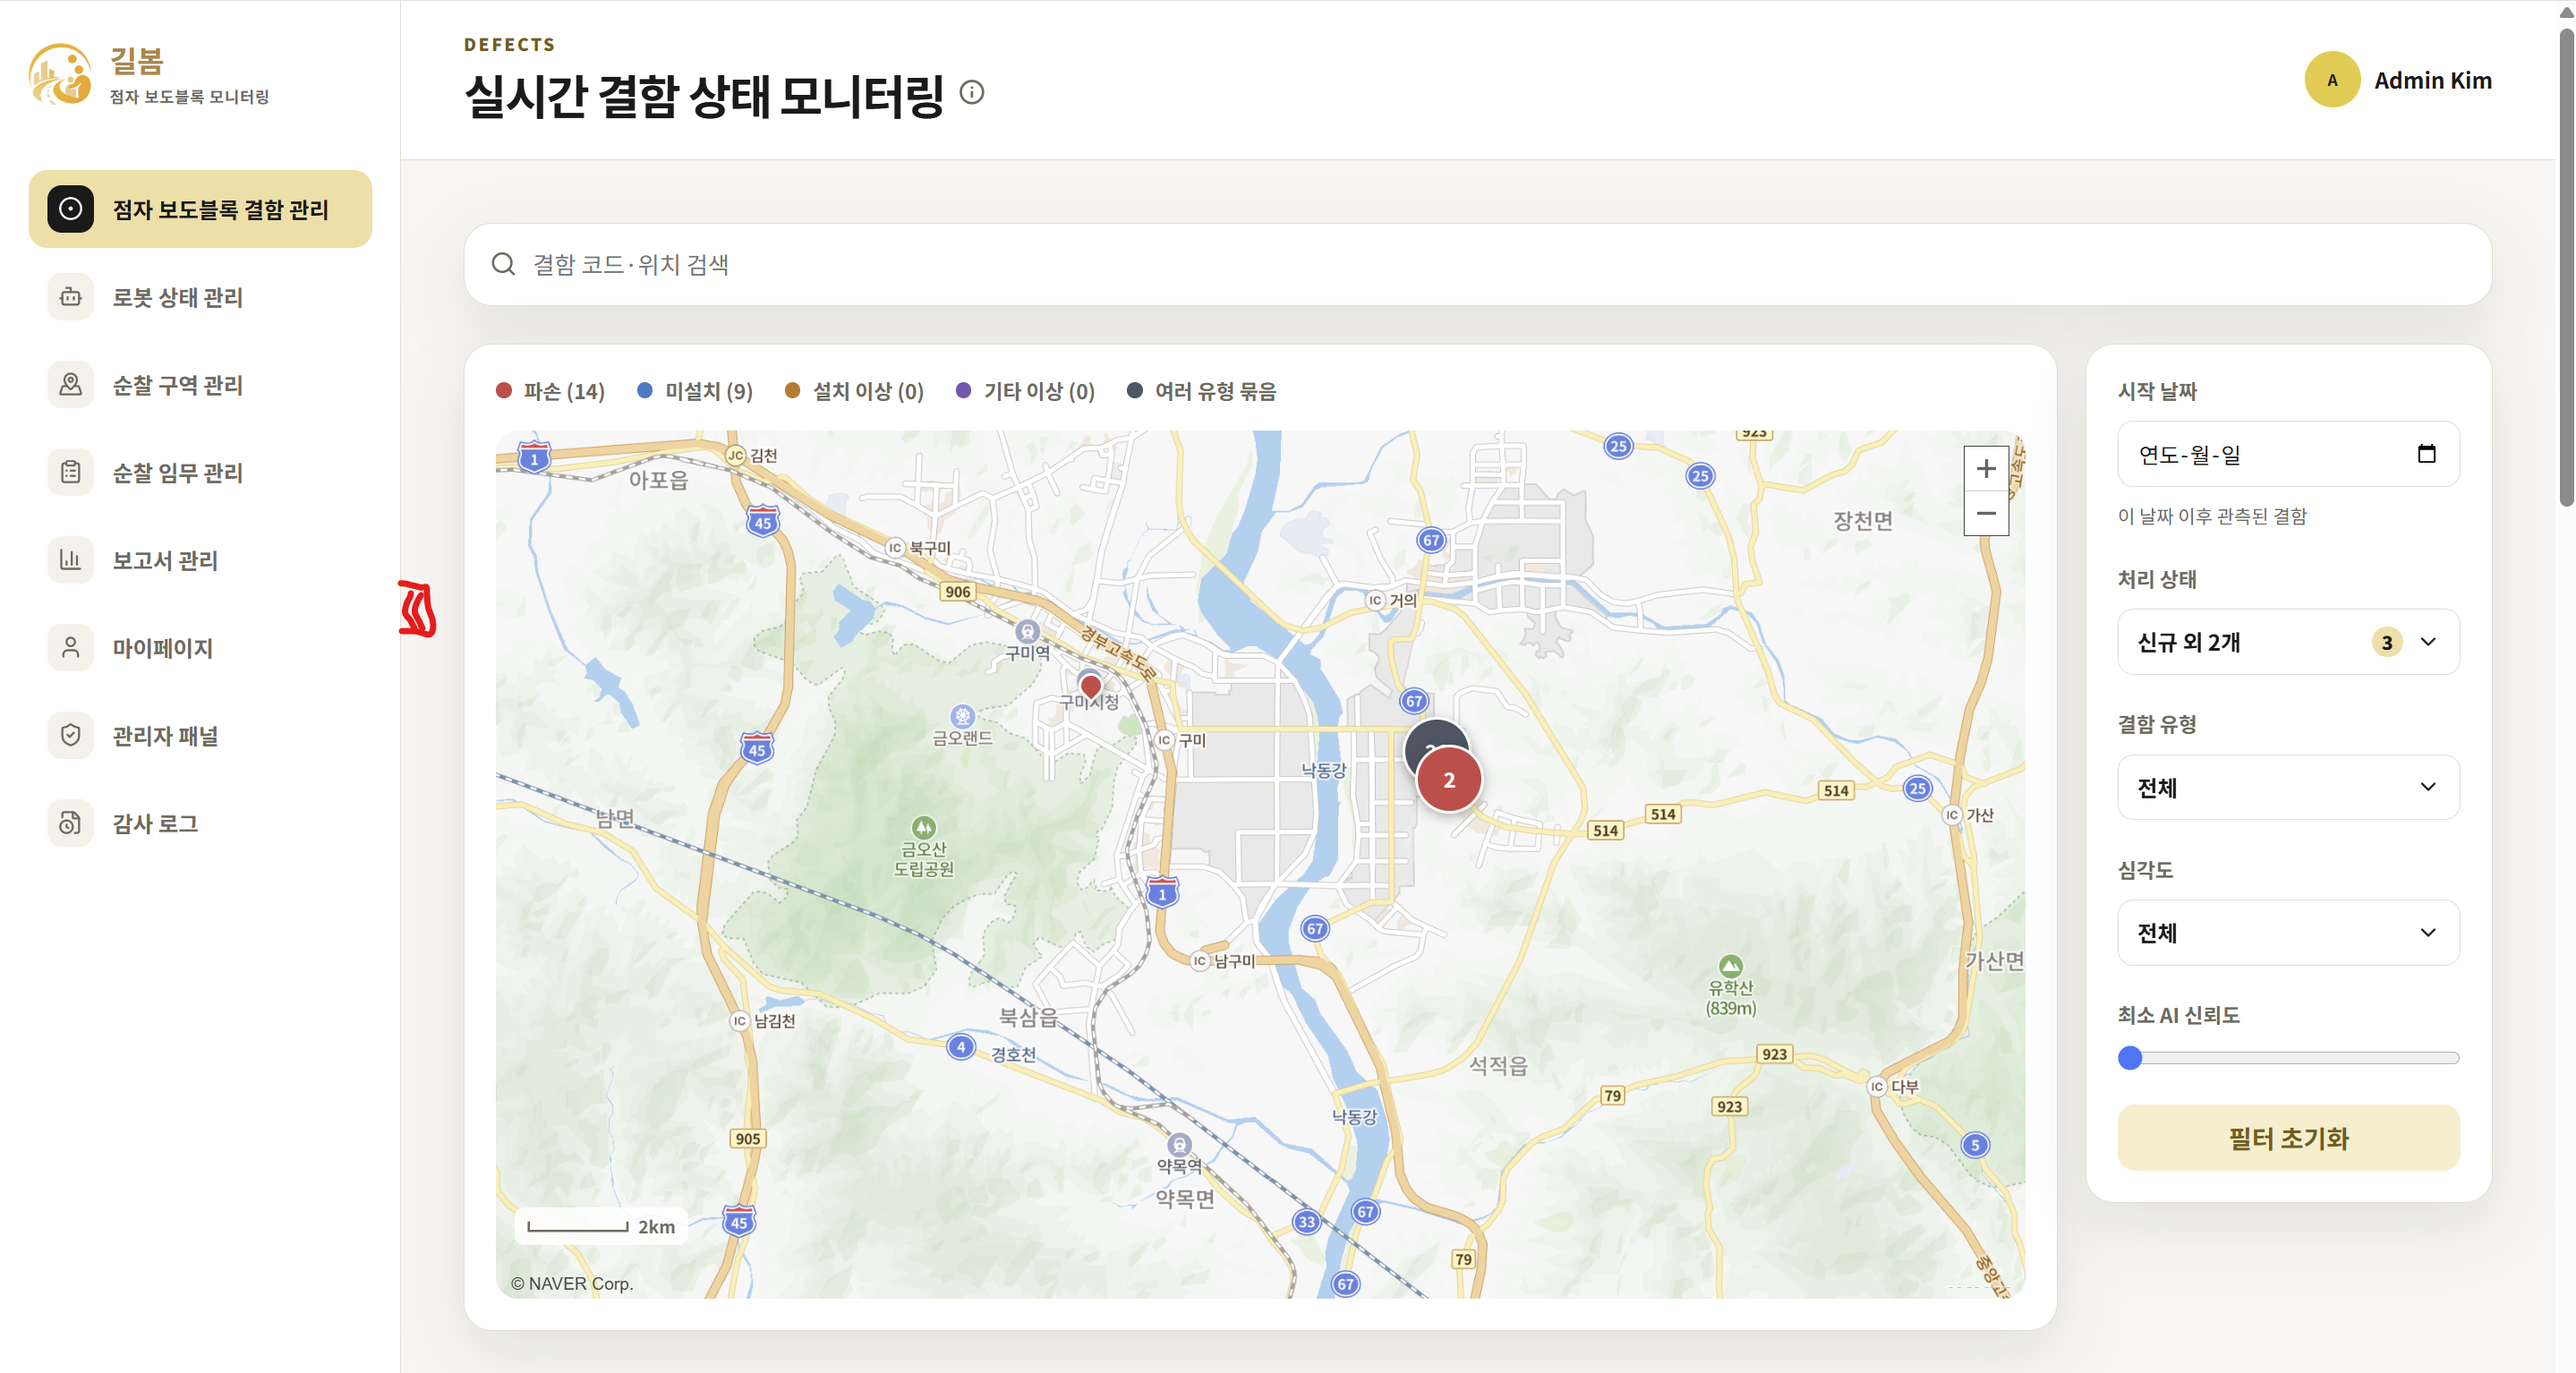
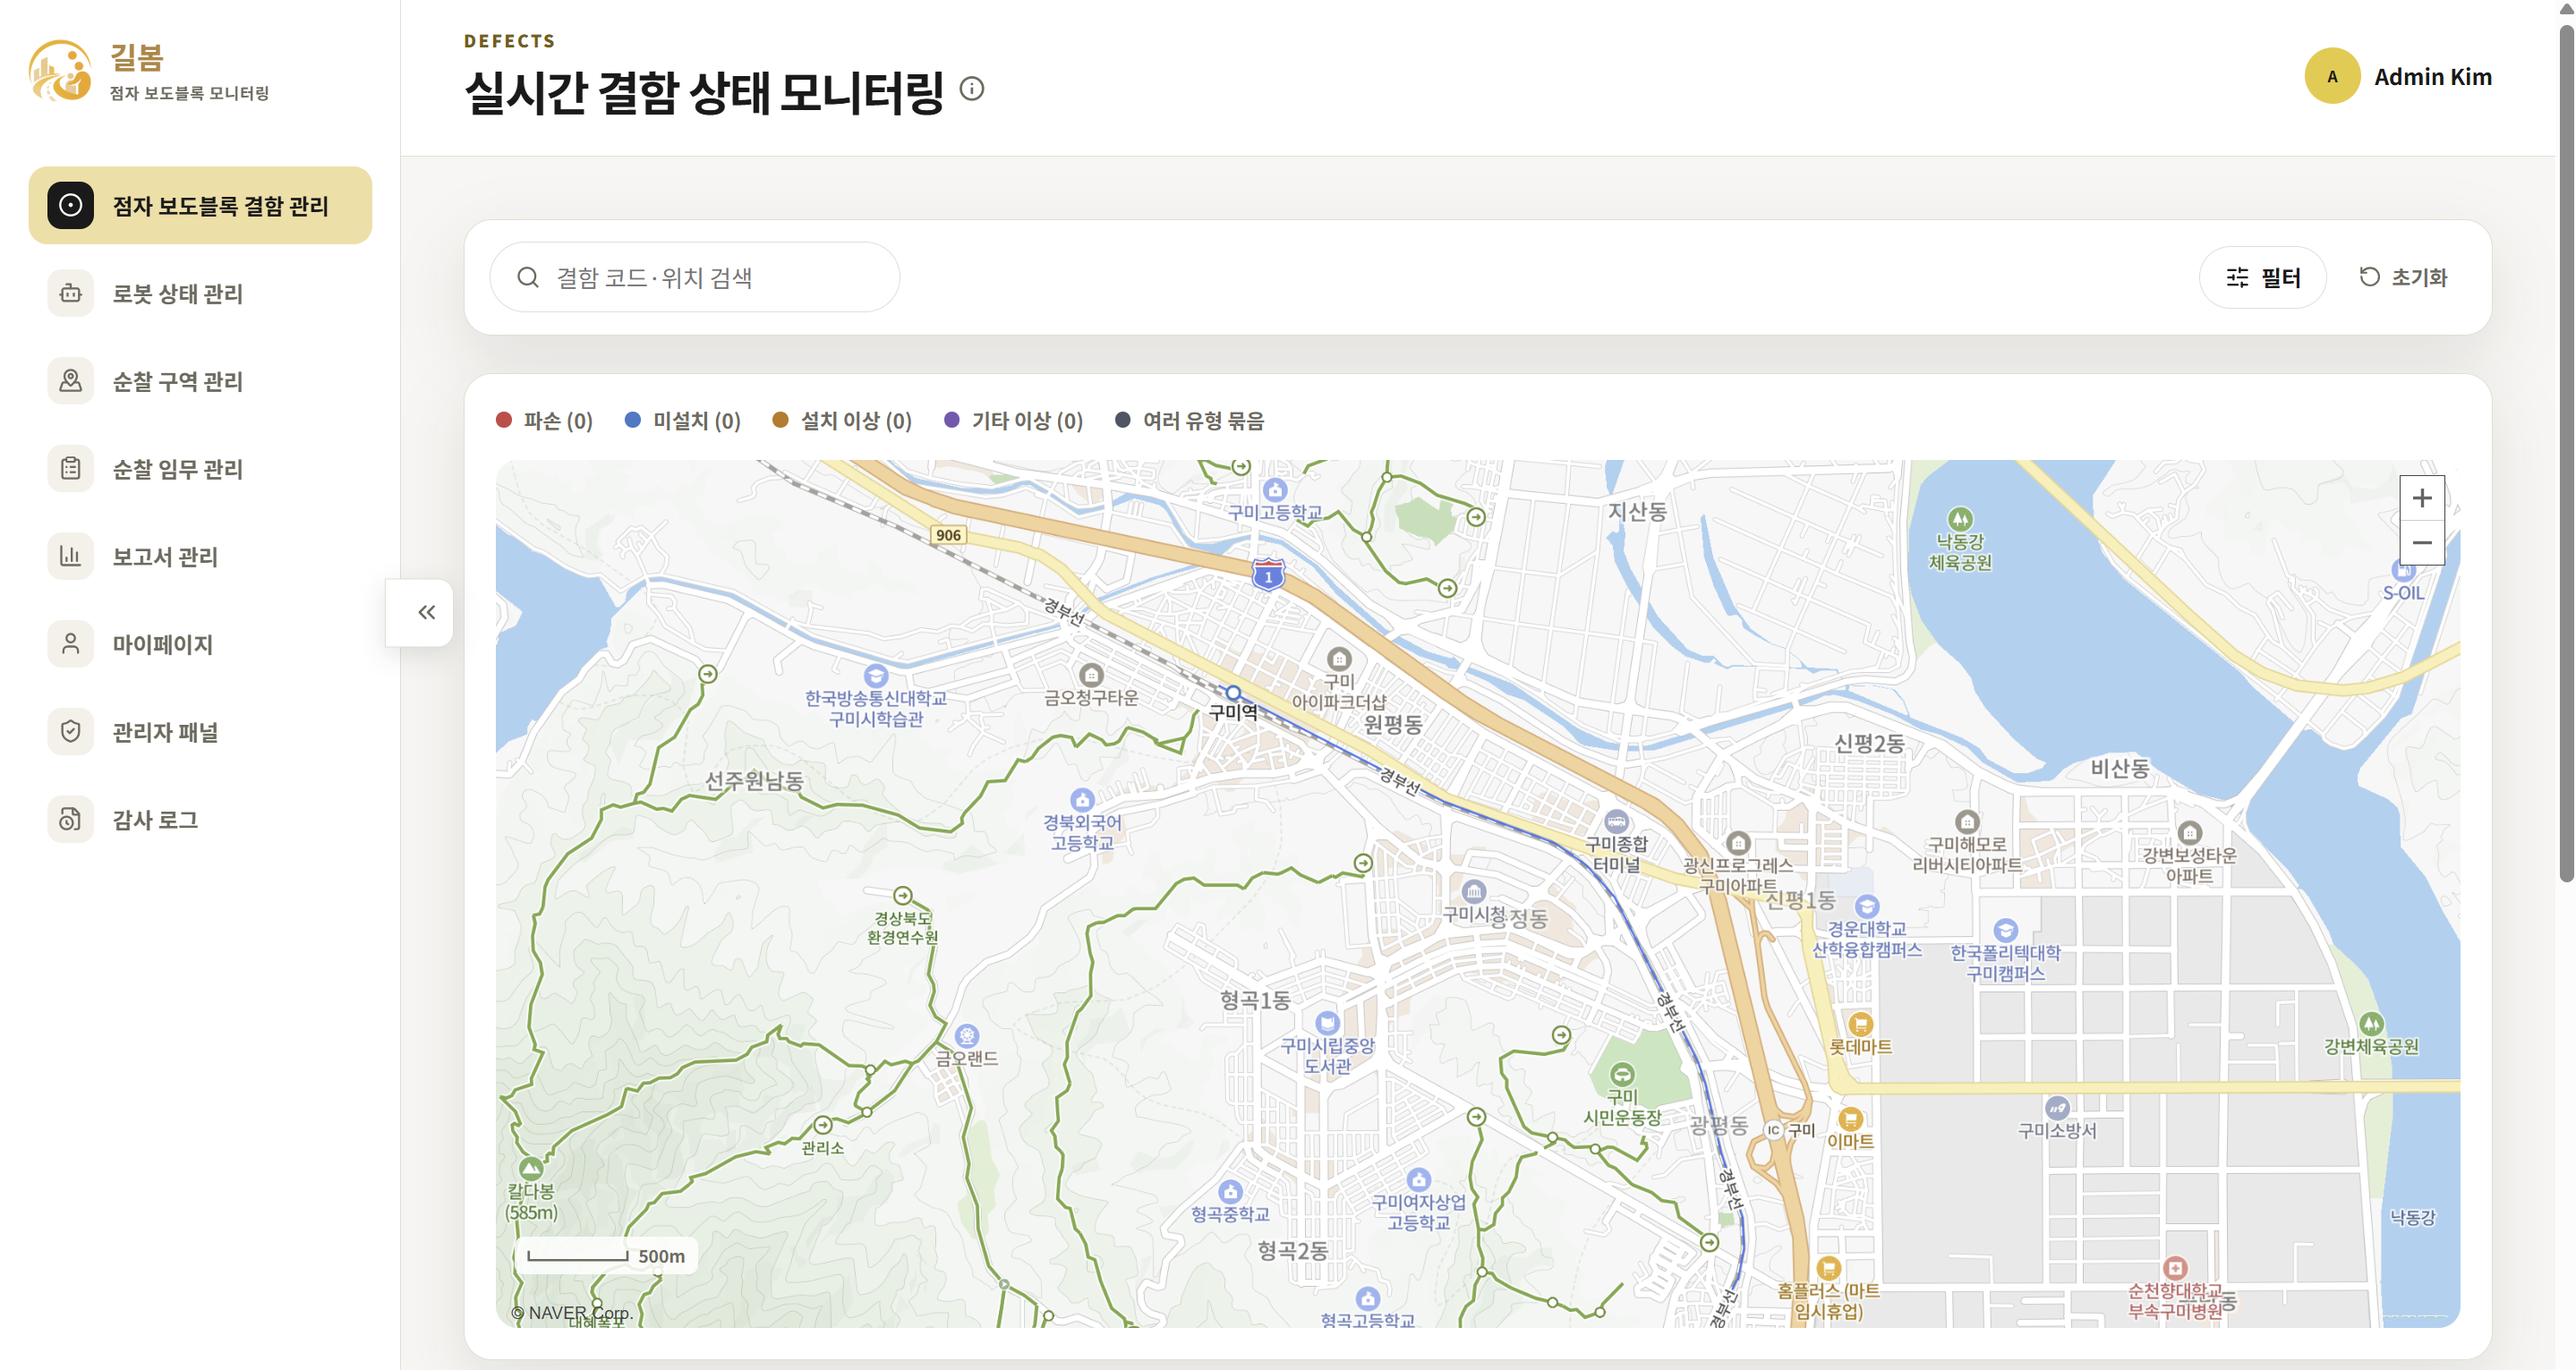
fix: 페이지네이션 버튼 레이어 수정

diff --git a/web/frontend/gilbom/src/App.css b/web/frontend/gilbom/src/App.css
@@ -139,7 +139,7 @@
 
 .nb-sidebar-toggle {
   position: absolute;
-  z-index: -1;
+  z-index: 1;
   top: 44%;
   right: -34px;
   display: grid;

diff --git a/web/design-qa.md b/web/design-qa.md
@@ -1,56 +1,53 @@
 **Source visual truth**
 
 - Path: `/home/ssafy/common-proj/web/docs/img/main.png`
-- Pixel dimensions: 2878 × 1534
-- Reference state: desktop, navigation expanded, red annotation marking the sidebar-edge toggle location
+- Pixel dimensions: 2878 × 1536
+- State: desktop defect screen with expanded navigation and the `≪` boundary control
+- The screenshot is the user-reported problem state: the navigation control appears to have been pushed behind another layer.
 
 **Implementation evidence**
 
-- Expanded state: `/home/ssafy/common-proj/web/.artifacts/sidebar-expanded.png`
-- Collapsed state: `/home/ssafy/common-proj/web/.artifacts/sidebar-collapsed.png`
-- Pagination state: `/home/ssafy/common-proj/web/.artifacts/defect-pagination.png`
+- Screenshot: `/home/ssafy/common-proj/web/.artifacts/sidebar-front-layer.png`
+- Pixel dimensions: 2878 × 1536
 - Browser viewport: 1439 × 768 CSS pixels at device scale factor 2
-- Implementation captures: 2878 × 1536 pixels
-- Density normalization: source and implementation were compared at the same 1439 CSS-pixel display width
+- State: desktop defect screen with expanded navigation
 
 **Full-view comparison evidence**
 
-- Comparison image: `/home/ssafy/common-proj/web/.artifacts/sidebar-comparison.png`
-- The source and expanded implementation are shown side by side at the same normalized viewport.
-- The toggle sits on the navigation/content boundary at the annotated vertical region.
+- Comparison: `/home/ssafy/common-proj/web/.artifacts/sidebar-front-layer-full-comparison.png`
+- The problem capture and corrected browser render are shown together at the same normalized viewport and density.
+- The navigation width, toggle position, top bar, search region, and map card retain their existing proportions.
 
 **Focused region comparison evidence**
 
-- Comparison image: `/home/ssafy/common-proj/web/.artifacts/sidebar-focused-comparison.png`
-- Target region: the left navigation boundary around 44% of viewport height.
-- The implementation control is centered on the boundary and uses left-facing chevrons while expanded.
+- Comparison: `/home/ssafy/common-proj/web/.artifacts/sidebar-front-layer-comparison.png`
+- The `≪` control remains centered on the navigation/content boundary and its complete icon and clickable surface remain visible.
+- The corrected control is a positive stacking item and is the top hit target in its visible region.
 
 **Findings**
 
-- No P0, P1, or P2 fidelity issue remains in the requested sidebar control.
-- The reference uses a hand-drawn marker, so its width and shape are treated as positional guidance rather than button styling.
-- The browser QA container lacks the project’s Korean font packages; missing glyph boxes in the implementation capture are environment-only and do not alter layout measurements.
+- No remaining P0, P1, or P2 issue was found in the requested layer correction.
+- The implementation capture uses mocked map data and the QA container lacks the project Korean font package; these differences do not affect the measured control position or stacking behavior.
 
 **Required fidelity surfaces**
 
-- Fonts and typography: application styles remain unchanged; the QA container font limitation is documented above.
-- Spacing and layout rhythm: expanded width is 256px, collapsed width is 76px, and the toggle center is between 42% and 46% of sidebar height.
-- Colors and visual tokens: the existing neutral border, surface, shadow, and focus tokens are reused.
-- Image quality and asset fidelity: the existing logo and Lucide chevrons are used.
-- Copy and content: navigation labels are unchanged; accessible labels are `네비게이션 접기` and `네비게이션 펼치기`.
+- Fonts and typography: unchanged by this correction.
+- Spacing and layout rhythm: control dimensions and 44% vertical anchor are unchanged.
+- Colors and visual tokens: existing border, surface, and shadow tokens are preserved.
+- Image quality and asset fidelity: existing logo, map component, and Lucide chevron icon are preserved.
+- Copy and content: no user-facing copy changed.
 
 **Primary interactions and console**
 
-- Playwright clicked the collapse control and verified the reverse expand control appeared.
-- Expanded width, collapsed width, and hidden collapsed labels were asserted.
-- Defect pagination left and right gaps were both asserted at 23px or greater; the applied gap is 24px.
-- The Naver map authentication request was isolated from visual QA.
-- No failed responses or console errors remained in the final run.
+- Playwright verified computed `z-index: 1`.
+- Playwright verified the visible control is the top pointer hit target.
+- Playwright clicked `네비게이션 접기` and verified `네비게이션 펼치기` appeared.
+- Browser console errors: none.
 
 **Comparison history**
 
-- Initial implementation: added the sidebar boundary toggle and collapsed state.
-- Visual iteration: matched the reference marker’s vertical region and verified both navigation states.
-- Pagination iteration: widened and centered the previous/counter/next controls.
+- Earlier P1: `.nb-sidebar-toggle` used `z-index: -1`, placing the interactive control in a negative child layer.
+- Fix: changed the control to `z-index: 1` while preserving the bookmark position and complete `≪ / ≫` icon.
+- Post-fix evidence: Playwright interaction passed and both full and focused comparison captures were reviewed.
 
 final result: passed
